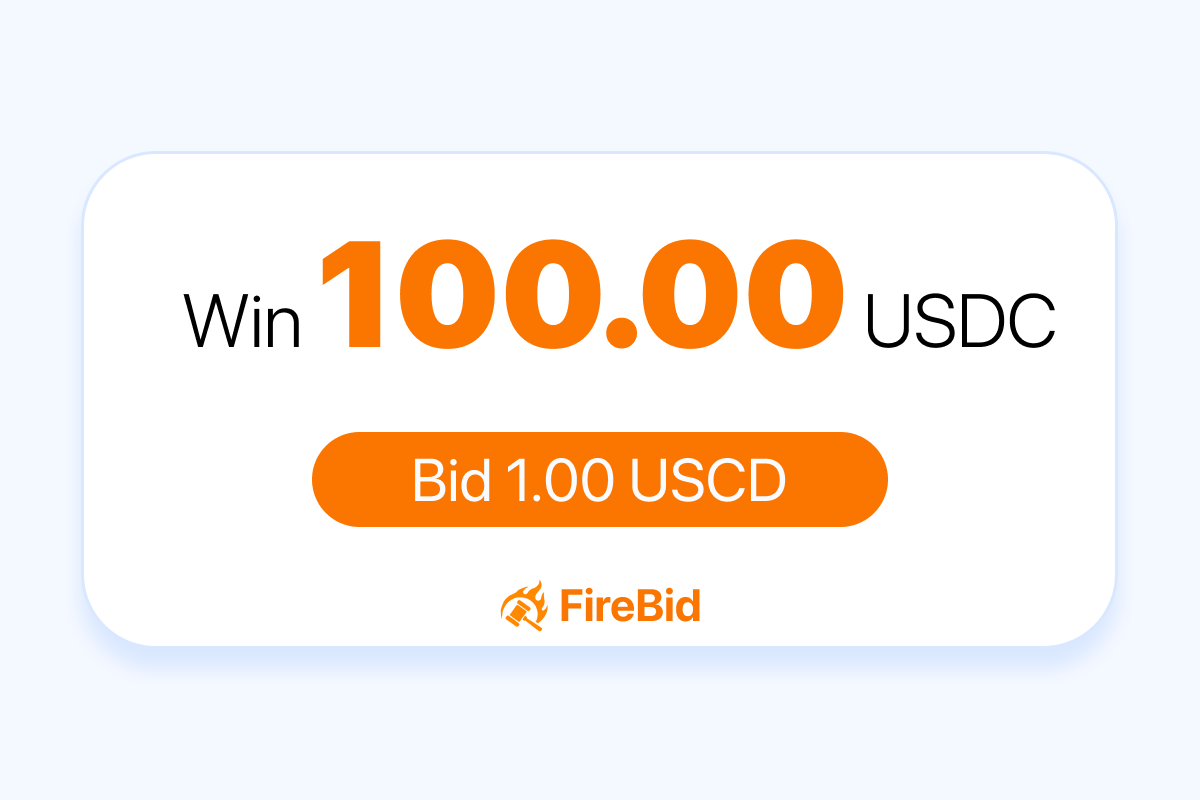
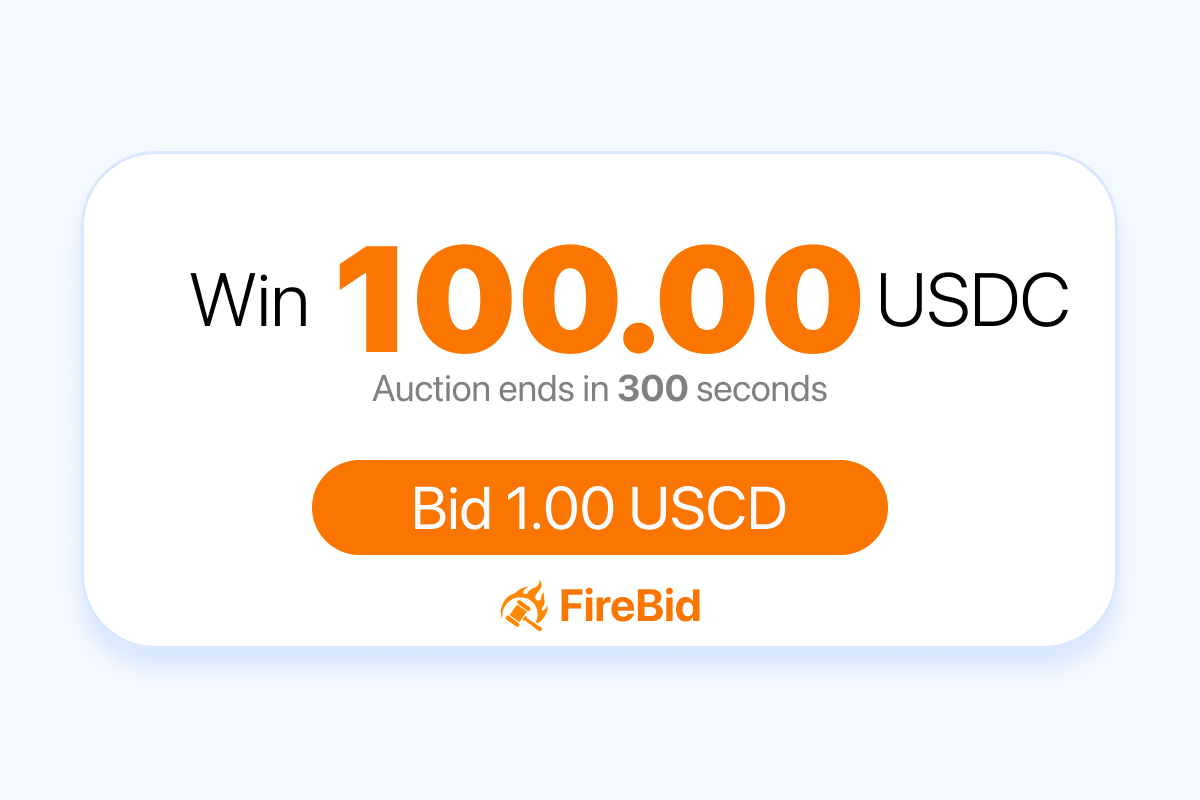
design updates

Changed region(s): [[0.1542, 0.2812, 0.8942, 0.5], [0.2467, 0.5312, 0.74, 0.7188]]

diff --git a/packages/nextjs/app/page.tsx b/packages/nextjs/app/page.tsx
@@ -3,6 +3,7 @@
 import { useEffect, useMemo, useState } from "react";
 import { auctionCreatedQueryOptions, auctionEndedQueryOptions, bidPlacedQueryOptions } from "../lib/bid-events-query";
 import type { NextPage } from "next";
+import { toast } from "react-hot-toast";
 import { useAccount, useReadContract, useWriteContract } from "wagmi";
 import { MiniappUserInfo } from "~~/components/MiniappUserInfo";
 import { Address, RainbowKitCustomConnectButton } from "~~/components/scaffold-eth";
@@ -57,6 +58,13 @@ const FarcasterIcon = ({ className = "w-5 h-5" }: { className?: string }) => (
       fill="currentColor"
       d="m128.889 253.333 28.889 97.778h24.444v395.556c-12.273 0-22.222 9.949-22.222 22.222v26.667h-4.444c-12.273 0-22.223 9.949-22.223 22.222v26.667h248.889v-26.667c0-12.273-9.949-22.222-22.222-22.222h-4.444v-26.667c0-12.273-9.95-22.222-22.223-22.222h-26.666V253.333H128.889ZM675.556 746.667c-12.274 0-22.223 9.949-22.223 22.222v26.667h-4.444c-12.273 0-22.222 9.949-22.222 22.222v26.667h248.889v-26.667c0-12.273-9.95-22.222-22.223-22.222h-4.444v-26.667c0-12.273-9.949-22.222-22.222-22.222V351.111h24.444L880 253.333H702.222v493.334h-26.666Z"
     ></path>
+  </svg>
+);
+
+const UrlCopyIcon = ({ className = "w-5 h-5" }) => (
+  <svg xmlns="http://www.w3.org/2000/svg" viewBox="0 0 1000 1000" fill="currentColor" className={className}>
+    <path d="M128.889 253.333h484.444v688.889h-71.111V528.889h-.697c-7.86-87.212-81.156-155.556-170.414-155.556-89.258 0-162.554 68.344-170.414 155.556h-.697v315.556h-71.111V155.556Z" />
+    <path d="m128.889 253.333 28.889 97.778h24.444v395.556c-12.273 0-22.222 9.949-22.222 22.222v26.667h-4.444c-12.273 0-22.223 9.949-22.223 22.222v26.667h248.889v-26.667c0-12.273-9.949-22.222-22.222-22.222h-4.444v-26.667c0-12.273-9.95-22.222-22.223-22.222h-26.666V253.333H128.889ZM675.556 746.667c-12.274 0-22.223 9.949-22.223 22.222v26.667h-4.444c-12.273 0-22.222 9.949-22.222 22.222v26.667h248.889v-26.667c0-12.273-9.95-22.222-22.223-22.222h-4.444v-26.667c0-12.273-9.949-22.222-22.222-22.222V351.111h24.444L880 253.333H702.222v493.334h-26.666Z" />
   </svg>
 );
 
@@ -329,6 +337,8 @@ const Home: NextPage = () => {
     return endTime > nowSecBig ? Number(endTime - nowSecBig) : 0;
   })();
 
+  const sharingUrl = (process.env.NEXT_PUBLIC_URL ?? "http://localhost:3000") + "/?ref=" + connectedAddress;
+
   // Loading gate: wait for initial wallet resolution and first fetch of auction-related data
   const isWalletInitializing = isConnecting || isReconnecting;
   const isLoadingApp = !!(
@@ -350,12 +360,16 @@ const Home: NextPage = () => {
 
   return (
     <div className="w-full max-w-3xl mx-auto px-2 sm:px-4 lg:px-6">
-      <div className="flex flex-col gap-4 py-4 px-2">
+      <div className="flex flex-col gap-1 py-4 px-2">
         <div className="bg-base-100 p-5 rounded-3xl shadow-md shadow-secondary border border-base-300 flex flex-col gap-3">
-          <div className="text-2xl font-light text-center items-center">
-            Win{" "}
-            <span className="mx-1 font-black text-6xl text-primary">{formatToken(latestAuction?.auctionAmount)}</span>{" "}
-            {String(tokenSymbol ?? "USDC")}!
+          <div className="flex flex-col sm:flex-row flex-wrap gap-0 sm:gap-4 items-center">
+            <div className="text-center sm:text-right flex-1 text-2xl font-light items-end">Win</div>
+            <div className="flex-none items-center font-black text-6xl text-primary">
+              {formatToken(latestAuction?.auctionAmount)}
+            </div>
+            <div className="text-center sm:text-left flex-1 text-2xl font-light items-start">
+              {String(tokenSymbol ?? "USDC")}!
+            </div>
           </div>
           <div className="grid grid-cols-1 sm:grid-cols-3 gap-4 items-center">
             <div className="text-center sm:text-left">
@@ -404,7 +418,7 @@ const Home: NextPage = () => {
                   <>
                     {isUserHighestBidder ? (
                       <>
-                        <div className="text-xl font-bold p-1">You are the highest bidder</div>
+                        <div className="text-xl font-bold p-1">✅ You are the highest bidder</div>
                         <div className="mt-1 text-gray-500 text-xs">
                           {(() => {
                             const endTime = latestAuction?.endTime as bigint;
@@ -416,7 +430,7 @@ const Home: NextPage = () => {
                     ) : (
                       <>
                         <button
-                          className="btn btn-primary text-xl transition-all"
+                          className="btn btn-primary text-xl transition-all h-14 px-6"
                           onClick={handlePlaceBid}
                           disabled={isBidding}
                         >
@@ -437,7 +451,7 @@ const Home: NextPage = () => {
                 ) : null}
                 {latestAuction?.auctionId && isAcutionReadytoBeOver && !isAuctionOver ? (
                   <button
-                    className="btn btn-primary text-xl"
+                    className="btn btn-primary text-xl transition-all h-14 px-6"
                     onClick={async () => {
                       const receipt = await writeContractAsync(
                         { functionName: "endAuction" },
@@ -466,7 +480,7 @@ const Home: NextPage = () => {
                 ) : null}
                 {!latestAuction?.auctionId || isAuctionOver ? (
                   <button
-                    className="btn btn-primary text-xl"
+                    className="btn btn-primary text-xl transition-all h-14 px-6 "
                     onClick={async () => {
                       await writeContractAsync({ functionName: "startAuction" });
                     }}
@@ -497,7 +511,7 @@ const Home: NextPage = () => {
               className="btn btn-accent btn-sm flex items-center gap-2"
               href={`https://warpcast.com/~/compose?text=${encodeURIComponent(
                 `Win on FireBid:`,
-              )}&embeds[]=${encodeURIComponent(typeof window !== "undefined" ? window.location.href : "")}`}
+              )}&embeds[]=${encodeURIComponent(sharingUrl)}`}
               target="_blank"
               rel="noreferrer noopener"
             >
@@ -507,70 +521,77 @@ const Home: NextPage = () => {
               className="btn btn-accent btn-sm flex items-center gap-2"
               href={`https://twitter.com/intent/tweet?text=${encodeURIComponent(
                 `Win on FireBid:`,
-              )}&url=${encodeURIComponent(typeof window !== "undefined" ? window.location.href : "")}`}
+              )}&url=${encodeURIComponent(sharingUrl)}`}
               target="_blank"
               rel="noreferrer noopener"
             >
               <XIcon className="w-4 h-4" /> Tweet
             </a>
+            <a
+              className="btn btn-accent btn-sm flex items-center gap-2"
+              onClick={() => {
+                navigator.clipboard.writeText(sharingUrl);
+                toast.success("Link copied to clipboard");
+              }}
+              target="_blank"
+              rel="noreferrer noopener"
+            >
+              <UrlCopyIcon className="w-4 h-4" /> Copy Link
+            </a>
           </div>
         </div>
 
         {/* Bid history */}
-        <div className="bg-base-100 p-5 rounded-3xl shadow-md shadow-secondary border border-base-300 flex flex-col gap-3">
-          <div className="flex flex-col gap-2">
-            {/* if auction os nto ended yet */}
-            {isAuctionActive && (
-              <>
-                {CurrentBidEvents.map(event => (
-                  <div
-                    key={event.id}
-                    className="flex items-center justify-center border border-base-300 rounded-xl p-3"
-                  >
-                    <div className="flex flex-col items-center gap-1">
-                      <div className="flex flex-col sm:flex-row items-center gap-2 text-sm">
-                        <Address size="sm" address={event.bidder as `0x${string}`} />
-                        <div className="">
-                          bids <span className="font-black">{formatToken(event.amount as bigint)}</span>{" "}
-                          {String(tokenSymbol ?? "USDC")}
-                        </div>
-                      </div>
-                      <div className="text-xs text-base-content/50">
-                        {formatTimeAgoBrief(now, event.timestamp as number)}
+        <div className="flex flex-col gap-4 mt-4">
+          {/* if auction os nto ended yet */}
+          {isAuctionActive && (
+            <>
+              {CurrentBidEvents.map(event => (
+                <div
+                  key={event.id}
+                  className="flex items-center justify-center border border-base-300 rounded-3xl bg-base-100 p-4 shadow-md shadow-secondary"
+                >
+                  <div className="flex flex-col items-center gap-1">
+                    <div className="flex flex-col sm:flex-row items-center gap-2 text-sm">
+                      <Address size="sm" address={event.bidder as `0x${string}`} />
+                      <div className="">
+                        bids <span className="font-black">{formatToken(event.amount as bigint)}</span>{" "}
+                        {String(tokenSymbol ?? "USDC")}
                       </div>
                     </div>
-                  </div>
-                ))}
-              </>
-            )}
-            {PastAuctions.map(event => (
-              <div
-                key={String(event.auctionId)}
-                className="flex flex-col items-center justify-center border border-base-300 rounded-xl p-3 relative"
-              >
-                <div className="flex flex-col items-center gap-1">
-                  <div className="flex flex-col sm:flex-row items-center gap-2 text-sm">
-                    <Address size="sm" address={event.winner as `0x${string}`} />
-                    <div className="text-sm">
-                      wins <span className="font-black">{formatToken(event.amount as bigint)}</span>{" "}
-                      {String(tokenSymbol ?? "USDC")}
+                    <div className="text-xs text-base-content/50">
+                      {formatTimeAgoBrief(now, event.timestamp as number)}
                     </div>
-                    <div className="text-sm">
-                      with a <span className="font-black">{formatToken(event.highestBid as bigint)}</span> bid
-                    </div>
-                    {event.winner.toLowerCase() === connectedAddress?.toLowerCase() && (
-                      <button onClick={() => launchConfetti()} className="absolute top-2 right-2 btn btn-accent btn-sm">
-                        🎉
-                      </button>
-                    )}
-                  </div>
-                  <div className="text-xs text-base-content/50">
-                    {formatTimeAgoBrief(now, event.timestamp as number)}
                   </div>
                 </div>
+              ))}
+            </>
+          )}
+          {PastAuctions.map(event => (
+            <div
+              key={String(event.auctionId)}
+              className="relative flex flex-col items-center justify-center border border-base-300 rounded-3xl bg-base-100 p-4 shadow-md shadow-secondary"
+            >
+              <div className="flex flex-col items-center gap-1">
+                <div className="flex flex-col sm:flex-row items-center gap-2 text-sm">
+                  <Address size="sm" address={event.winner as `0x${string}`} />
+                  <div className="text-sm">
+                    wins <span className="font-black">{formatToken(event.amount as bigint)}</span>{" "}
+                    {String(tokenSymbol ?? "USDC")}
+                  </div>
+                  <div className="text-sm">
+                    with a <span className="font-black">{formatToken(event.highestBid as bigint)}</span> bid
+                  </div>
+                  {event.winner.toLowerCase() === connectedAddress?.toLowerCase() && (
+                    <button onClick={() => launchConfetti()} className="absolute top-2 right-2 btn btn-accent btn-sm">
+                      🎉
+                    </button>
+                  )}
+                </div>
+                <div className="text-xs text-base-content/50">{formatTimeAgoBrief(now, event.timestamp as number)}</div>
               </div>
-            ))}
-          </div>
+            </div>
+          ))}
         </div>
 
         <div className="flex flex-col gap-2">

diff --git a/packages/nextjs/styles/globals.css b/packages/nextjs/styles/globals.css
@@ -107,7 +107,7 @@
 }
 
 .btn {
-  @apply shadow-md;
+  @apply shadow-md transition-all;
 }
 
 .btn.btn-ghost {
